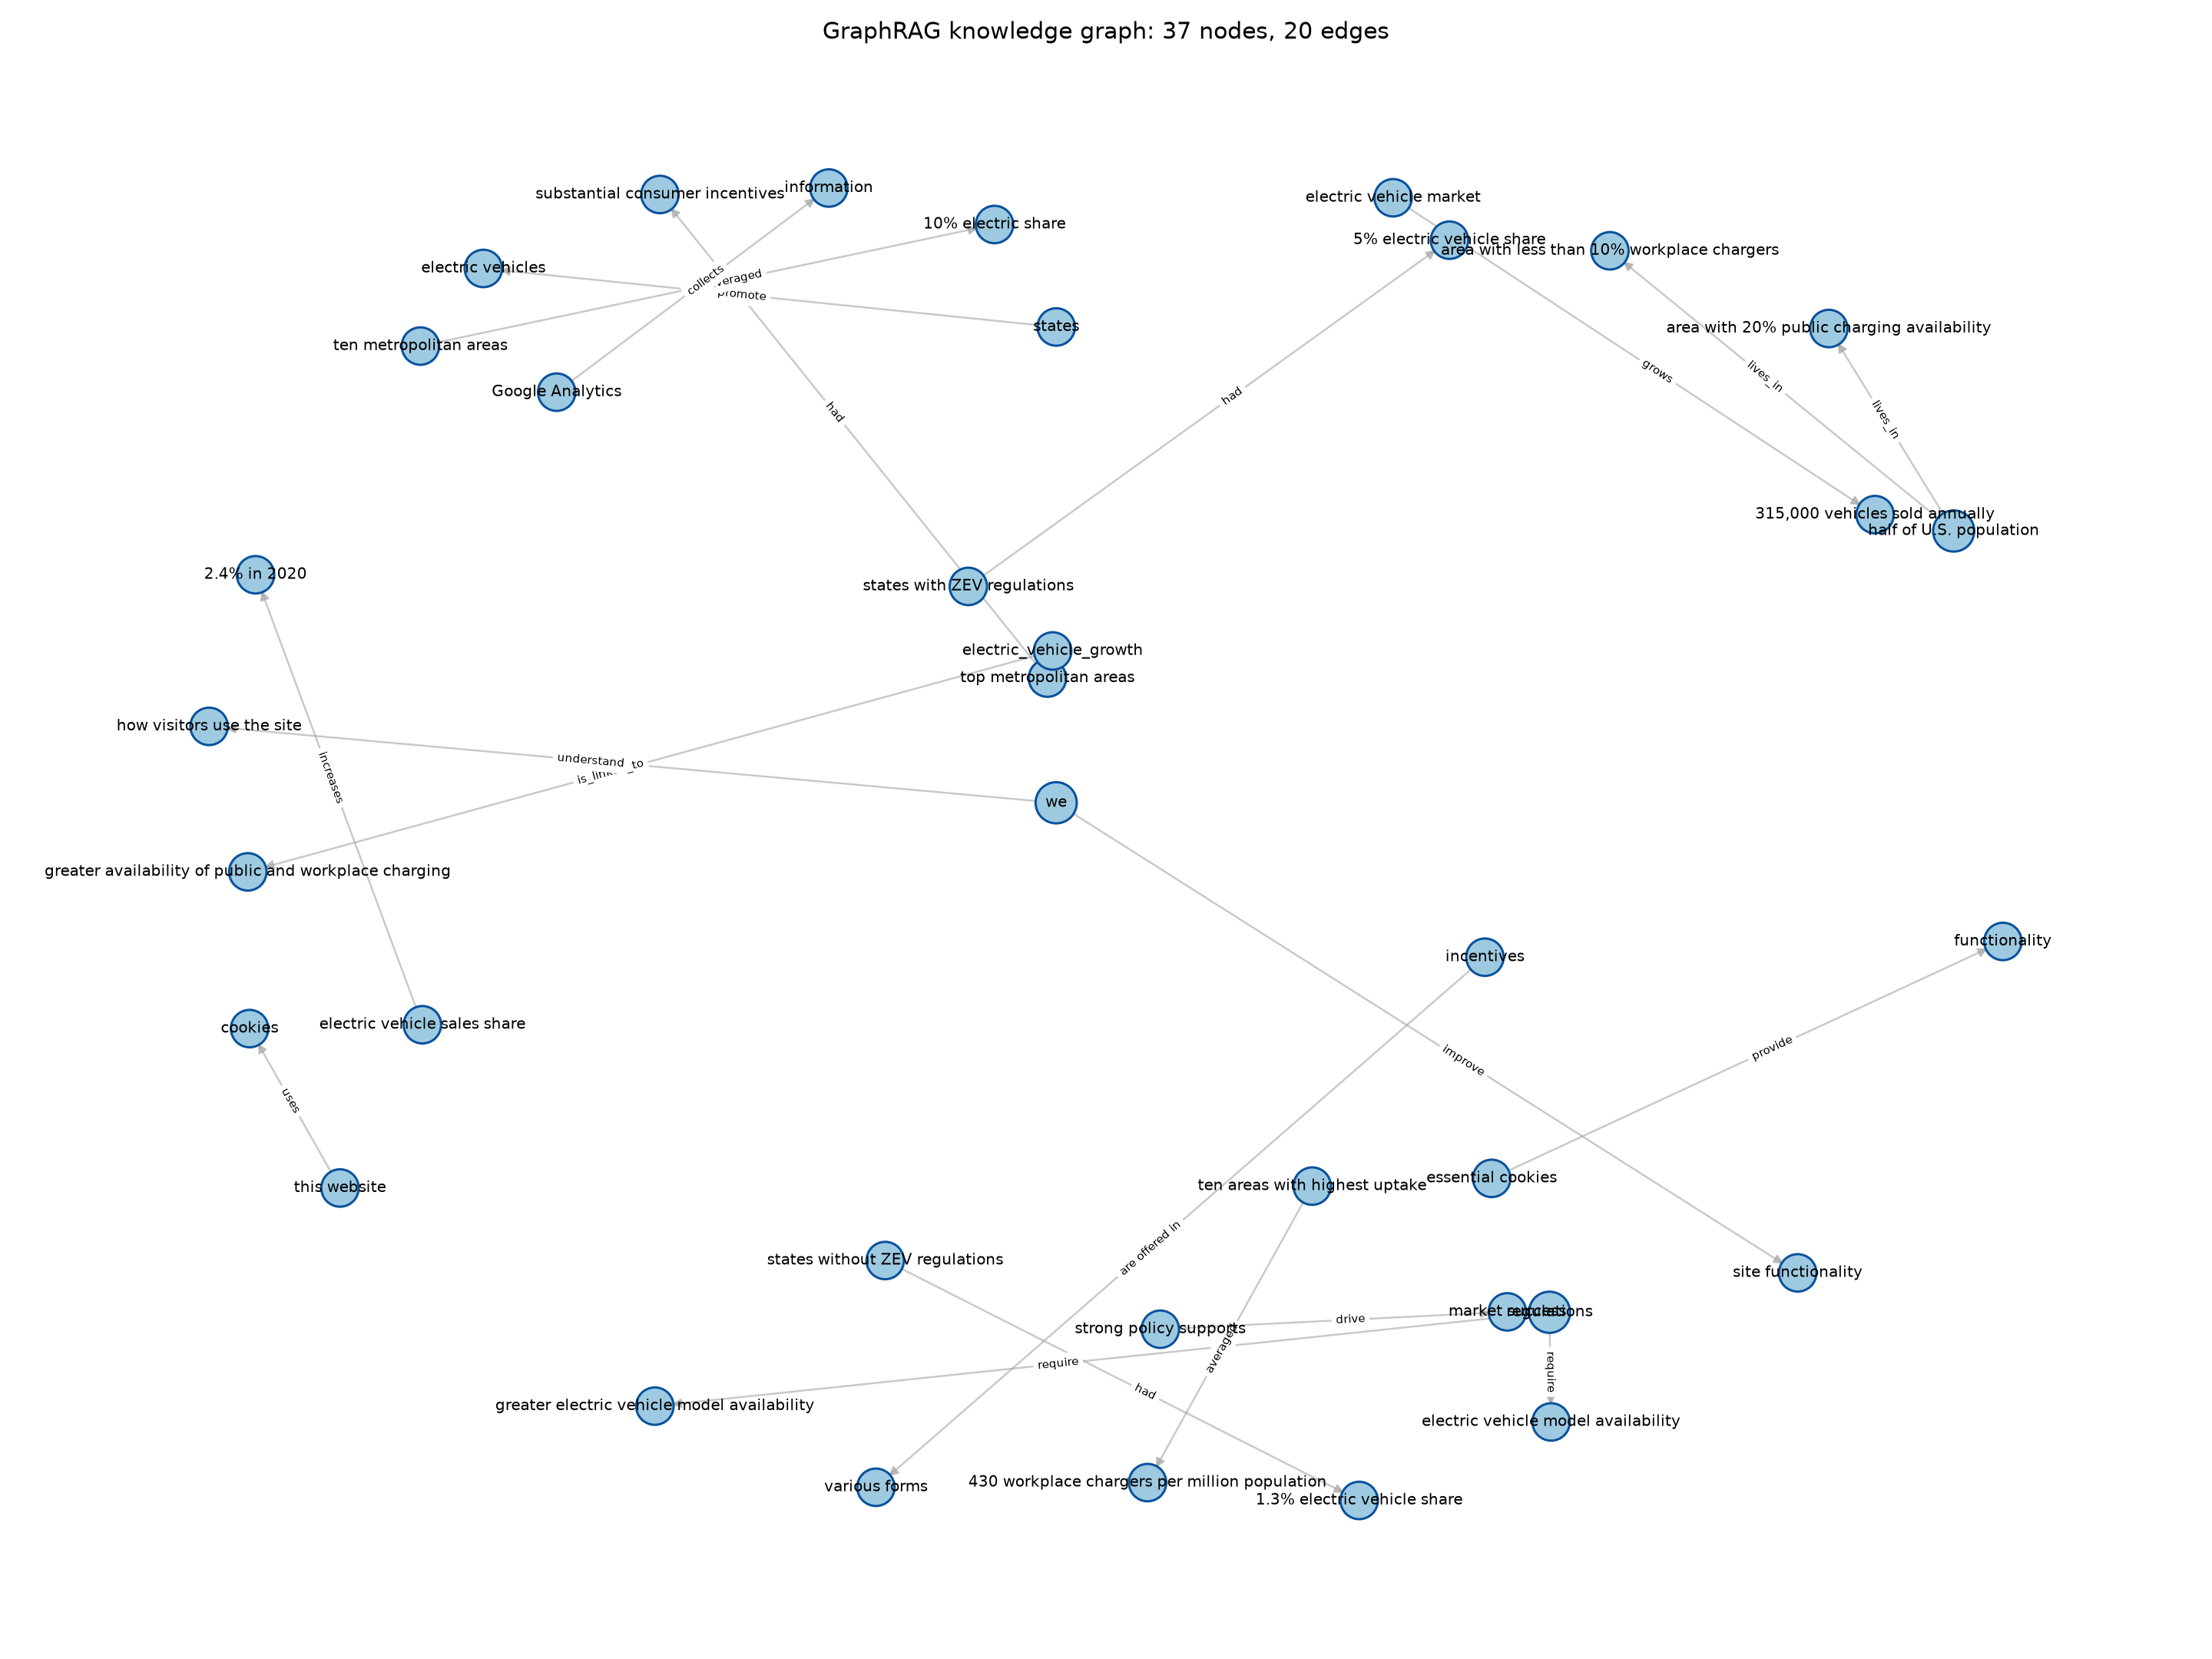
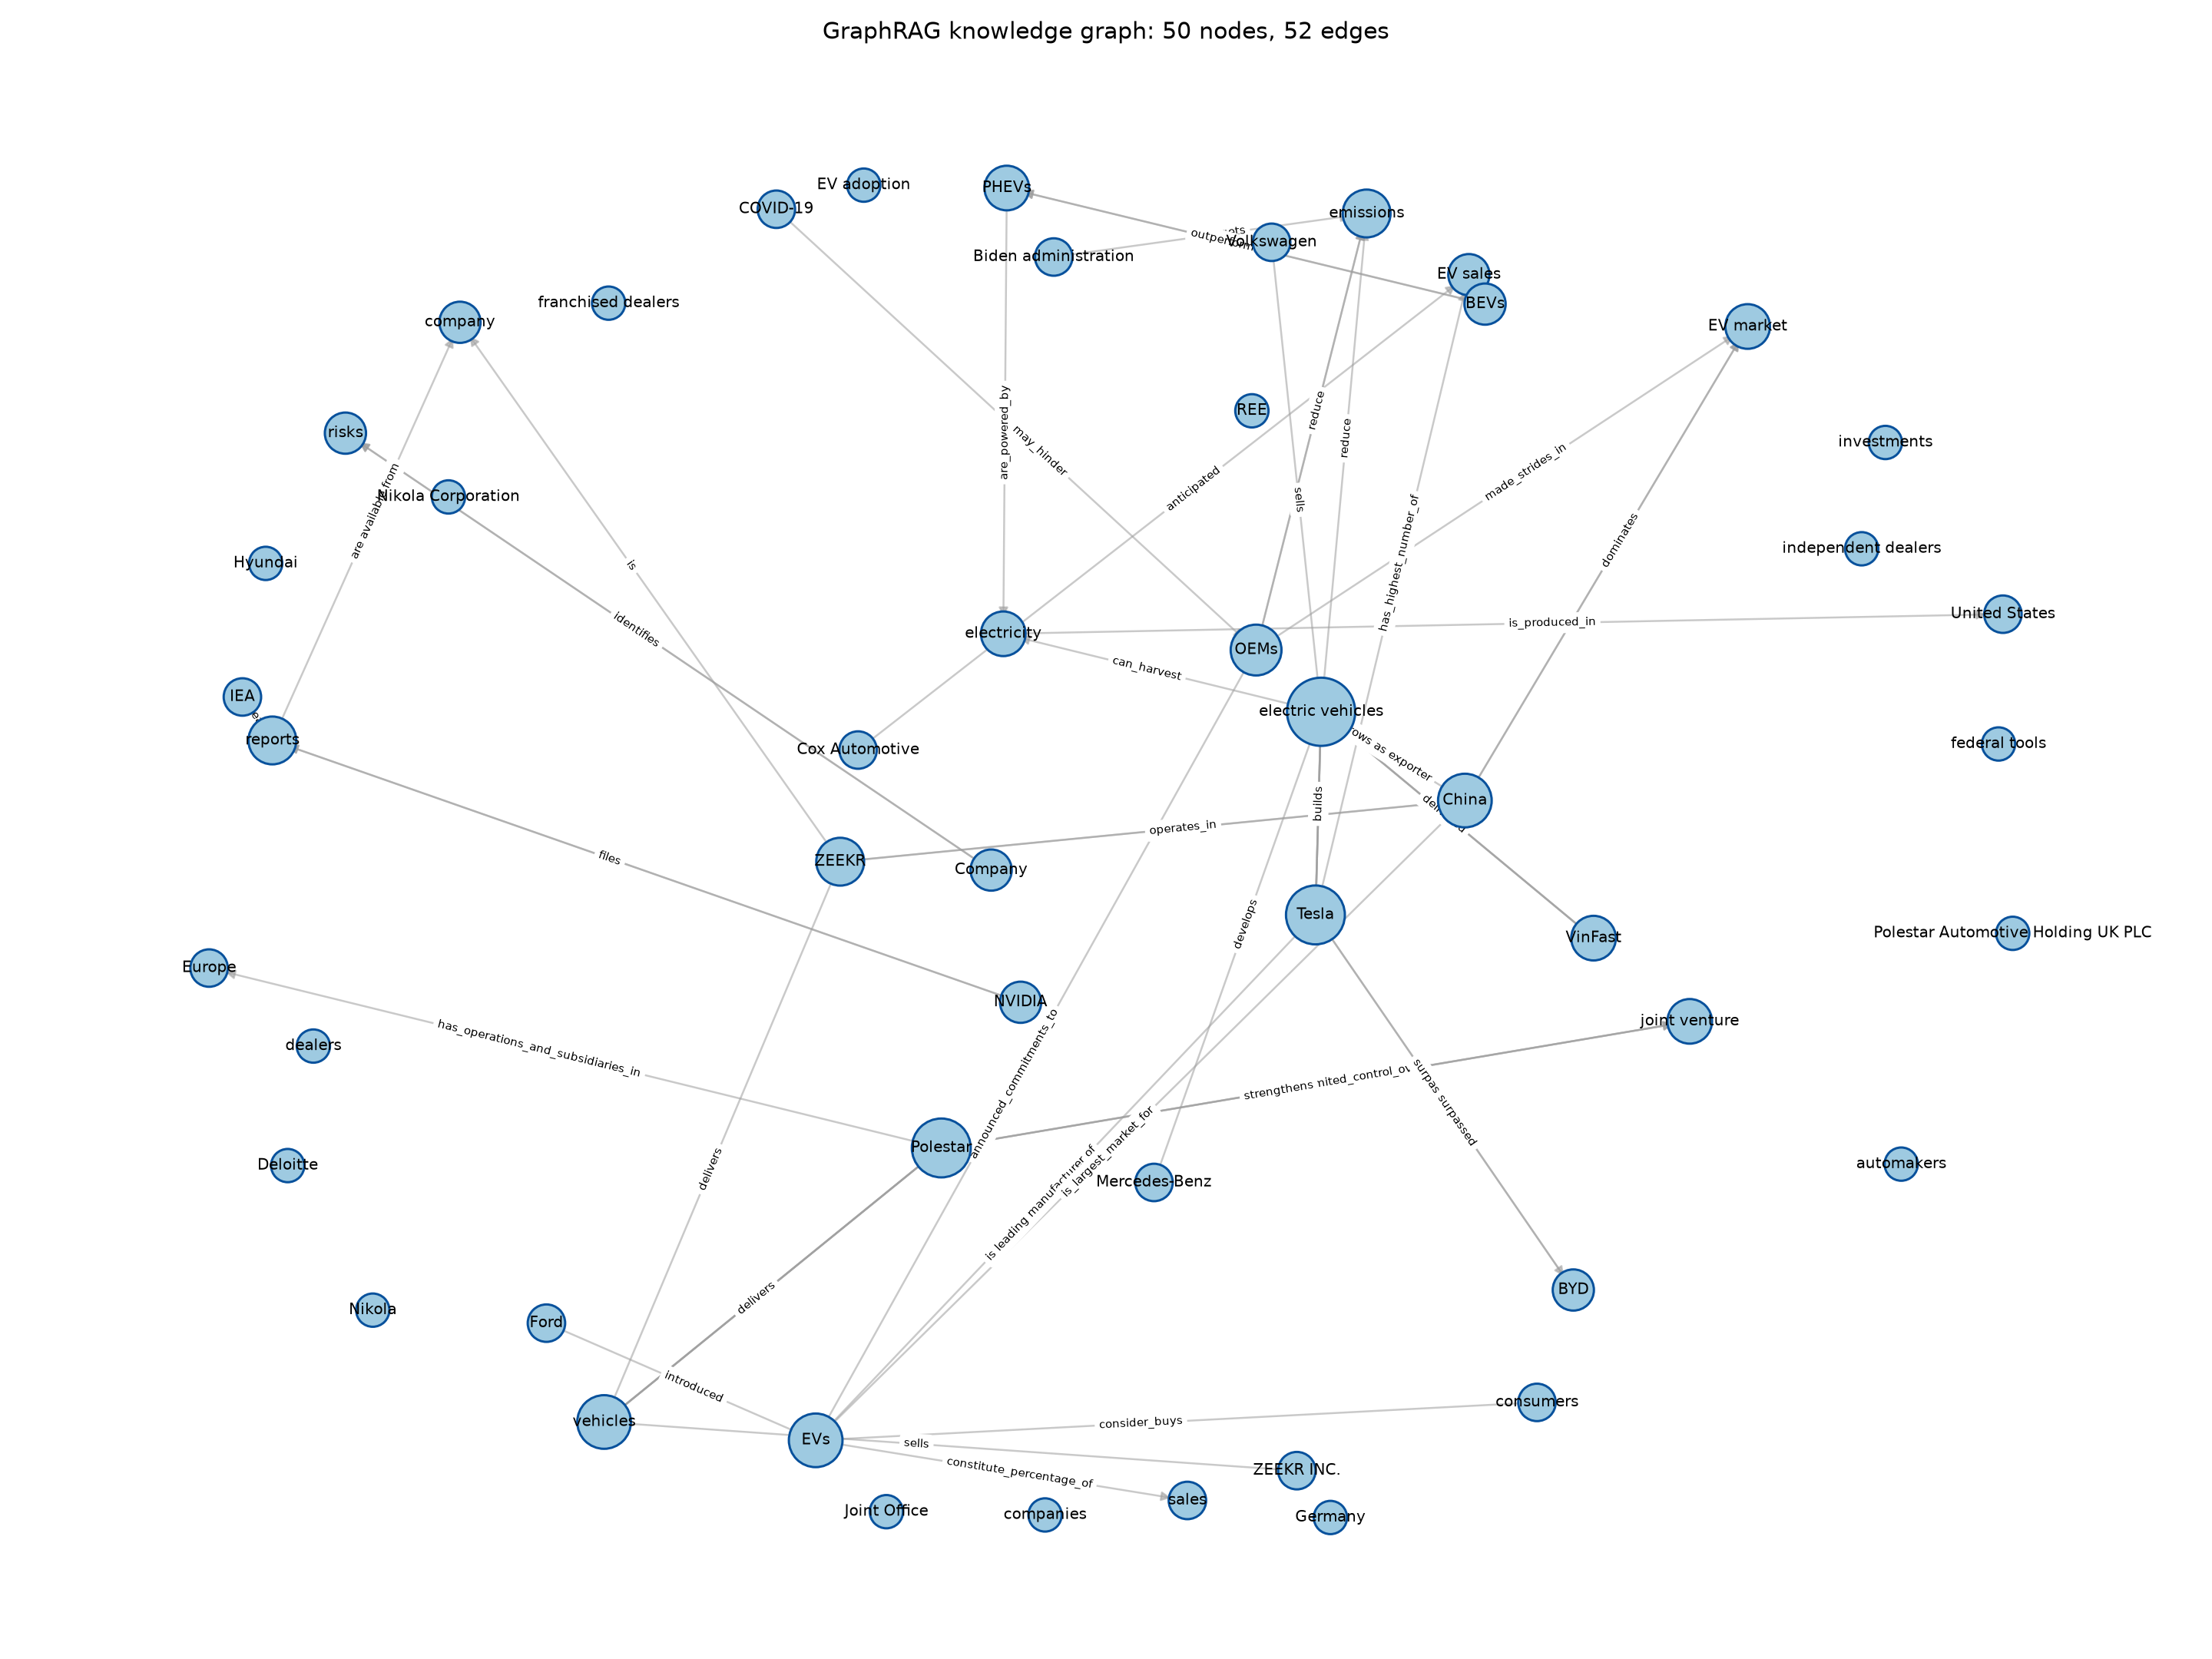
Lab day 19 done check

diff --git a/tests/test_local_runtime.py b/tests/test_local_runtime.py
@@ -4,11 +4,12 @@ import pytest
 
 from graphrag.config import LlmSettings, Settings
 from graphrag.documents import chunk_text, load_documents
-from graphrag.app import ingest
+from graphrag.app import extract_with_retries, ingest
 from graphrag.extraction import extraction_to_triple
 from graphrag.models import Chunk, Triple
 from graphrag.networkx_store import NetworkXStore
 from graphrag_local import run
+from langextract.core.exceptions import InferenceRuntimeError
 from langextract import data as lx_data
 from pydantic import SecretStr
 
@@ -217,3 +218,37 @@ def test_ingest_rebuilds_graph_and_writes_langextract_csv(
     assert (stored, failed, written_path) == (1, 0, triples_path)
     assert [fact.source for fact in facts] == ["Tesla"]
     assert "Tesla,builds,EVs" in triples_path.read_text(encoding="utf-8")
+
+
+def test_extract_with_retries_recovers_from_transient_langextract_error(
+    tmp_path: Path,
+    monkeypatch: pytest.MonkeyPatch,
+) -> None:
+    # Given
+    settings = Settings(
+        llm=LlmSettings(
+            api_key=SecretStr("test-key"),
+            base_url="https://example.test/v1",
+        ),
+        dataset_dir=tmp_path,
+        graph_path=tmp_path / "graph.graphml",
+        triples_path=tmp_path / "triples.csv",
+    )
+    chunk = Chunk(chunk_id="doc_1.txt::ch0", doc_id="doc_1.txt", text="Tesla")
+    calls = 0
+
+    def flaky_extract(_settings: LlmSettings, _chunk: Chunk) -> tuple[Triple, ...]:
+        nonlocal calls
+        calls += 1
+        if calls == 1:
+            raise InferenceRuntimeError("connection reset")
+        return (Triple(subject="Tesla", relation="builds", object="EVs"),)
+
+    monkeypatch.setattr("graphrag.app.extract_chunk", flaky_extract)
+
+    # When
+    triples = extract_with_retries(settings, chunk, sleep=lambda _seconds: None)
+
+    # Then
+    assert triples == (Triple(subject="Tesla", relation="builds", object="EVs"),)
+    assert calls == 2

diff --git a/graphrag/app.py b/graphrag/app.py
@@ -1,13 +1,17 @@
 from __future__ import annotations
 
 import csv
+import time
 from collections.abc import Callable
 from pathlib import Path
+
+from langextract.core.exceptions import LangExtractError
 
 from graphrag.config import Settings
 from graphrag.documents import build_chunks, load_documents
 from graphrag.extraction import InvalidTripleResponseError, extract_chunk
 from graphrag.llm import LlmClient
+from graphrag.models import Chunk, Triple
 from graphrag.networkx_store import NetworkXStore
 
 TRIPLE_FIELDS = (
@@ -20,6 +24,7 @@ TRIPLE_FIELDS = (
     "source_chunk",
     "evidence",
 )
+MAX_EXTRACT_ATTEMPTS = 3
 
 
 def check_runtime(settings: Settings) -> tuple[int, str]:
@@ -58,8 +63,8 @@ def ingest(
         writer.writeheader()
         for index, chunk in enumerate(chunks, start=1):
             try:
-                triples = extract_chunk(settings.llm, chunk)
-            except InvalidTripleResponseError:
+                triples = extract_with_retries(settings, chunk)
+            except (ConnectionError, InvalidTripleResponseError, LangExtractError):
                 failed += 1
                 progress(f"[{index}/{len(chunks)}] invalid extraction: {chunk.chunk_id}")
                 continue
@@ -82,6 +87,22 @@ def ingest(
             )
     store.save()
     return stored, failed, settings.triples_path
+
+
+def extract_with_retries(
+    settings: Settings,
+    chunk: Chunk,
+    *,
+    sleep: Callable[[float], None] = time.sleep,
+) -> tuple[Triple, ...]:
+    for attempt in range(1, MAX_EXTRACT_ATTEMPTS + 1):
+        try:
+            return extract_chunk(settings.llm, chunk)
+        except (ConnectionError, LangExtractError):
+            if attempt == MAX_EXTRACT_ATTEMPTS:
+                raise
+            sleep(float(2**attempt))
+    raise AssertionError("unreachable retry state")
 
 
 def answer(settings: Settings, question: str) -> str:

diff --git a/benchmark_output/benchmark_report.md b/benchmark_output/benchmark_report.md
@@ -4,19 +4,19 @@ Corpus: 70 documents. Questions: 20. Same LLM for answer generation.
 
 | Metric | Flat RAG | GraphRAG |
 |---|---:|---:|
-| Mean expected-document recall | 32.8% | 28.1% |
-| Mean retrieval latency | 5.08 ms | 18.03 ms |
-| Mean generation latency | 3920.75 ms | 2462.41 ms |
-| Mean context size | 7232 chars | 10526 chars |
+| Mean expected-document recall | 32.8% | 34.2% |
+| Mean retrieval latency | 4.98 ms | 8.42 ms |
+| Mean generation latency | 3838.51 ms | 1917.42 ms |
+| Mean context size | 7232 chars | 2769 chars |
 
-Recall wins: Flat 7, GraphRAG 4, ties 9.
+Recall wins: Flat 8, GraphRAG 7, ties 5.
 
 ## Graph construction cost
 
-- Existing graph input: 3,394 triples from `dataset/triples/graphrag_edges_neo4j.csv`
-  (1,725,191 bytes).
-- Loading triples into NetworkX took 78.83 ms and wrote a
-  2,091,889-byte GraphML file. No database service is required.
+- Existing graph input: 2,630 triples from `dataset/triples/graphrag_edges_neo4j.csv`
+  (371,661 bytes).
+- Loading triples into NetworkX took 25.51 ms and wrote a
+  741,540-byte GraphML file. No database service is required.
 - Building from raw text would require 3,421 extraction calls,
   covering about 4,070,797 prompt characters before response tokens.
 - GraphRAG adds extraction, normalization, persistence, and refresh cost. Flat RAG only